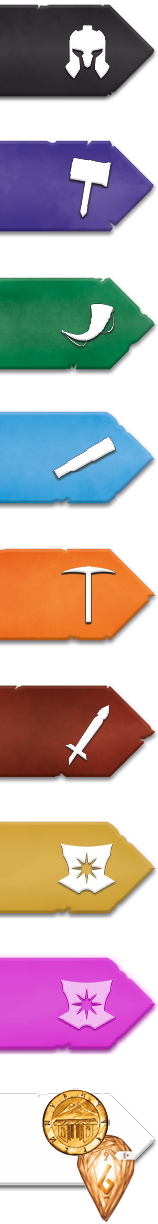
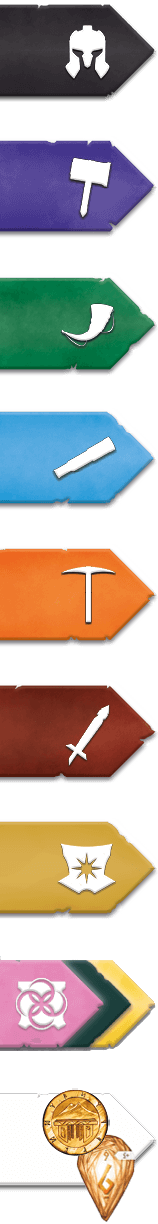
Add assets.

Changed region(s): [[0.0, 0.7761, 0.9873, 0.8693]]

diff --git a/nidavellir.css b/nidavellir.css
@@ -143,23 +143,23 @@ html {
   .card[data-class='1'] .card-rank {
     background-position-y: 0%; }
   .card[data-class='1'] .card-class-icon {
-    background-position-y: 14.2857142857%; }
+    background-position-y: 9.0909090909%; }
   .card[data-class='2'] .card-rank {
     background-position-y: 25%; }
   .card[data-class='2'] .card-class-icon {
-    background-position-y: 28.5714285714%; }
+    background-position-y: 18.1818181818%; }
   .card[data-class='3'] .card-rank {
     background-position-y: 50%; }
   .card[data-class='3'] .card-class-icon {
-    background-position-y: 42.8571428571%; }
+    background-position-y: 27.2727272727%; }
   .card[data-class='4'] .card-rank {
     background-position-y: 75%; }
   .card[data-class='4'] .card-class-icon {
-    background-position-y: 57.1428571429%; }
+    background-position-y: 36.3636363636%; }
   .card[data-class='5'] .card-rank {
     background-position-y: 100%; }
   .card[data-class='5'] .card-class-icon {
-    background-position-y: 71.4285714286%; }
+    background-position-y: 45.4545454545%; }
   .card[data-class='6']::before {
     background-position-x: 90.9090909091%; }
   .card[data-class='6'] .card-grade {
@@ -1313,15 +1313,15 @@ html {
           #nidavellir-board #player-boards .nidavellir-player-board .command-zone-container .cards-class.card-class_0::before {
             background-position-y: 0%; }
           #nidavellir-board #player-boards .nidavellir-player-board .command-zone-container .cards-class.card-class_1::before {
-            background-position-y: 14.2857142857%; }
+            background-position-y: 9.0909090909%; }
           #nidavellir-board #player-boards .nidavellir-player-board .command-zone-container .cards-class.card-class_2::before {
-            background-position-y: 28.5714285714%; }
+            background-position-y: 18.1818181818%; }
           #nidavellir-board #player-boards .nidavellir-player-board .command-zone-container .cards-class.card-class_3::before {
-            background-position-y: 42.8571428571%; }
+            background-position-y: 27.2727272727%; }
           #nidavellir-board #player-boards .nidavellir-player-board .command-zone-container .cards-class.card-class_4::before {
-            background-position-y: 57.1428571429%; }
+            background-position-y: 36.3636363636%; }
           #nidavellir-board #player-boards .nidavellir-player-board .command-zone-container .cards-class.card-class_5::before {
-            background-position-y: 71.4285714286%; }
+            background-position-y: 45.4545454545%; }
           #nidavellir-board #player-boards .nidavellir-player-board .command-zone-container .cards-class[data-capture="1"]::after {
             content: '';
             display: block;
@@ -2400,24 +2400,32 @@ html {
   width: 30px;
   height: 30px;
   background-image: url("img/classes.png");
-  background-size: 100% 800%;
+  background-size: 100% 1200%;
   vertical-align: middle;
   margin: -4px 3px 4px; }
   #logs .card-class-symbol.class-0 {
     background-position-y: 0%; }
   #logs .card-class-symbol.class-1 {
-    background-position-y: 14.2857142857%; }
+    background-position-y: 9.0909090909%; }
   #logs .card-class-symbol.class-2 {
-    background-position-y: 28.5714285714%; }
+    background-position-y: 18.1818181818%; }
   #logs .card-class-symbol.class-3 {
-    background-position-y: 42.8571428571%; }
+    background-position-y: 27.2727272727%; }
   #logs .card-class-symbol.class-4 {
-    background-position-y: 57.1428571429%; }
+    background-position-y: 36.3636363636%; }
   #logs .card-class-symbol.class-5 {
-    background-position-y: 71.4285714286%; }
+    background-position-y: 45.4545454545%; }
   #logs .card-class-symbol.class-9 {
-    background-position-y: 85.7142857143%; }
+    background-position-y: 54.5454545455%; }
   #logs .card-class-symbol.class-10 {
+    background-position-y: 63.6363636364%; }
+  #logs .card-class-symbol.class-11 {
+    background-position-y: 72.7272727273%; }
+  #logs .card-class-symbol.class-12 {
+    background-position-y: 81.8181818182%; }
+  #logs .card-class-symbol.class-13 {
+    background-position-y: 90.9090909091%; }
+  #logs .card-class-symbol.class-14 {
     background-position-y: 100%; }
 #logs .coin {
   display: inline-block;
@@ -2813,18 +2821,18 @@ html {
           width: 140px;
           height: 140px;
           background-image: url("img/classes.png");
-          background-size: 100% 800%;
+          background-size: 100% 1200%;
           flex-shrink: 0; }
         #popin_showHelpsheet #popin_showHelpsheet_contents #helper-classes .helper-classes-row[data-class='1'] .helper-classes-symbol {
-          background-position-y: 14.2857142857%; }
+          background-position-y: 9.0909090909%; }
         #popin_showHelpsheet #popin_showHelpsheet_contents #helper-classes .helper-classes-row[data-class='2'] .helper-classes-symbol {
-          background-position-y: 28.5714285714%; }
+          background-position-y: 18.1818181818%; }
         #popin_showHelpsheet #popin_showHelpsheet_contents #helper-classes .helper-classes-row[data-class='3'] .helper-classes-symbol {
-          background-position-y: 42.8571428571%; }
+          background-position-y: 27.2727272727%; }
         #popin_showHelpsheet #popin_showHelpsheet_contents #helper-classes .helper-classes-row[data-class='4'] .helper-classes-symbol {
-          background-position-y: 57.1428571429%; }
+          background-position-y: 36.3636363636%; }
         #popin_showHelpsheet #popin_showHelpsheet_contents #helper-classes .helper-classes-row[data-class='5'] .helper-classes-symbol {
-          background-position-y: 71.4285714286%; }
+          background-position-y: 45.4545454545%; }
         #popin_showHelpsheet #popin_showHelpsheet_contents #helper-classes .helper-classes-row[data-class='1'] h2 {
           color: #554696; }
         #popin_showHelpsheet #popin_showHelpsheet_contents #helper-classes .helper-classes-row[data-class='2'] h2 {

diff --git a/modules/css/log.scss b/modules/css/log.scss
@@ -16,15 +16,19 @@
     width:30px;
     height:30px;
     background-image: url('img/classes.png');
-    background-size: 100% 800%;
+    background-size: 100% 1200%;
     vertical-align: middle;
     margin: -4px 3px 4px;
 
     @for $i from 0 through 5 {
-      &.class-#{$i} { background-position-y: $i * 100% / 7; }
+      &.class-#{$i} { background-position-y: $i * 100% / 11; }
     }
-    &.class-9 { background-position-y: 6 * 100% / 7; }
-    &.class-10 { background-position-y: 7 * 100% / 7; }
+    &.class-9 { background-position-y: 6 * 100% / 11; }
+    &.class-10 { background-position-y: 7 * 100% / 11; }
+    &.class-11 { background-position-y: 8 * 100% / 11; }
+    &.class-12 { background-position-y: 9 * 100% / 11; }
+    &.class-13 { background-position-y: 10 * 100% / 11; }
+    &.class-14 { background-position-y: 11 * 100% / 11; }
   }
 
   .coin {

diff --git a/modules/css/modal.scss b/modules/css/modal.scss
@@ -340,13 +340,13 @@
           width: 140px;
           height: 140px;
           background-image: url('img/classes.png');
-          background-size: 100% 800%;
+          background-size: 100% 1200%;
           flex-shrink: 0;
         }
 
         @for $i from 1 through 5 {
           &[data-class='#{$i}'] .helper-classes-symbol {
-            background-position-y: $i * 100% / 7;
+            background-position-y: $i * 100% / 11;
           }
         }
 

diff --git a/modules/css/layout.scss b/modules/css/layout.scss
@@ -298,7 +298,7 @@
           }
 
           @for $i from 0 through 5 {
-            &.card-class_#{$i}::before { background-position-y: $i * 100% / 7; }
+            &.card-class_#{$i}::before { background-position-y: $i * 100% / 11; }
           }
 
 

diff --git a/modules/css/card.scss b/modules/css/card.scss
@@ -109,7 +109,7 @@
       background-position-y: ($i - 1) * 100% / 4;
     }
     &[data-class='#{$i}'] .card-class-icon {
-      background-position-y: $i * 100% / 7;
+      background-position-y: $i * 100% / 11;
     }
   }
 
